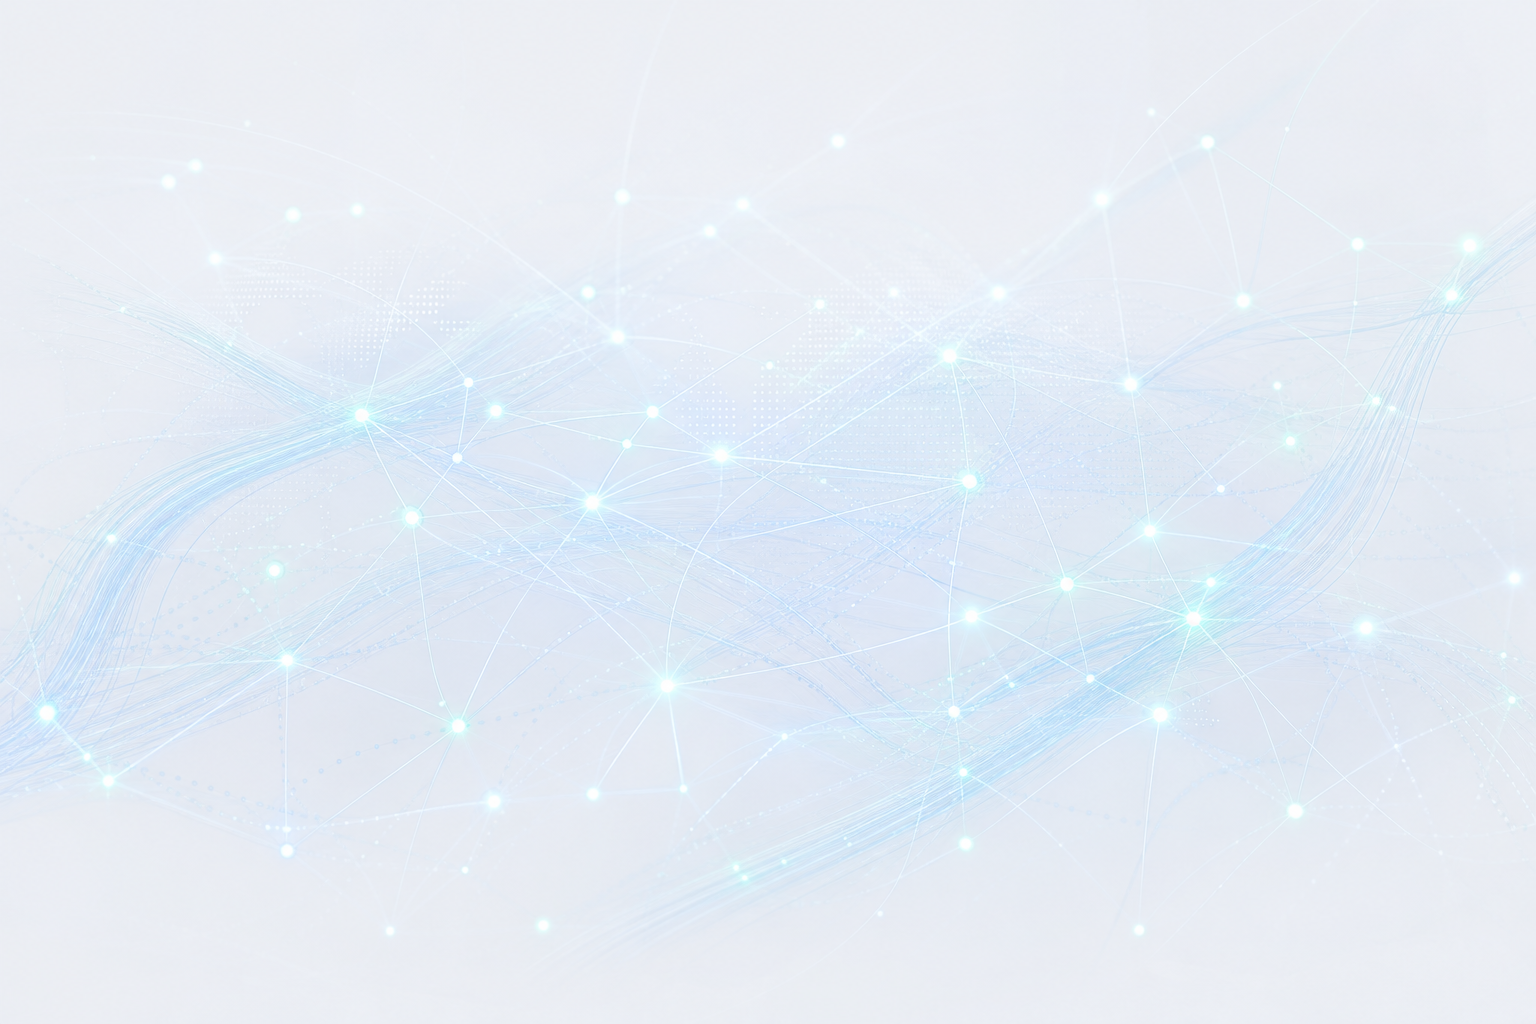
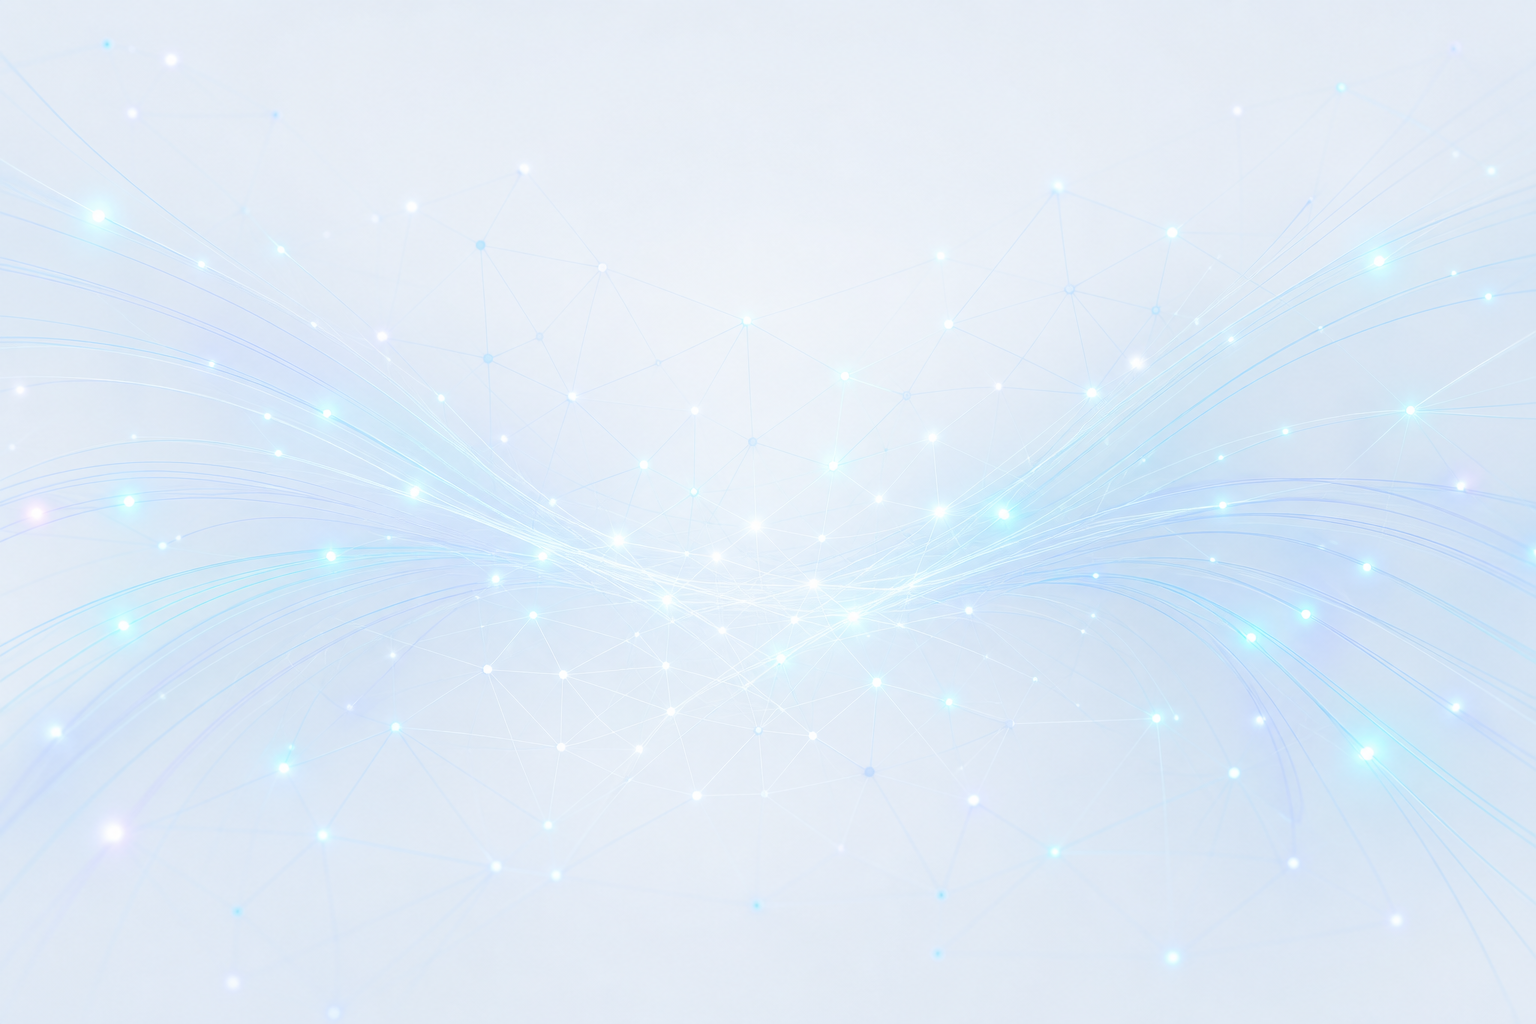
2

diff --git a/horizonisp/wwwroot/css/site.css b/horizonisp/wwwroot/css/site.css
@@ -31,13 +31,19 @@ body {
 
 .login-page {
   min-height: 100vh;
-  background: #eef2f7 url("/images/login-watermark.png") center center / cover no-repeat fixed;
+  margin: 0;
+}
+
+.login-page-shell {
+  position: relative;
+  min-height: 100vh;
+  background: #eef2f7 url("/images/login-watermark.png") center center / cover no-repeat;
 }
 
 .login-page-overlay {
-  position: fixed;
+  position: absolute;
   inset: 0;
-  background: rgba(248, 249, 250, 0.72);
+  background: rgba(248, 249, 250, 0.55);
   pointer-events: none;
   z-index: 0;
 }
@@ -49,9 +55,10 @@ body {
 }
 
 .login-page .card {
-  background: rgba(255, 255, 255, 0.94);
+  background: rgba(255, 255, 255, 0.95);
   backdrop-filter: blur(4px);
   border: 0;
+  box-shadow: 0 0.5rem 1.25rem rgba(0, 0, 0, 0.08);
 }
 
 .card-dashboard-link {